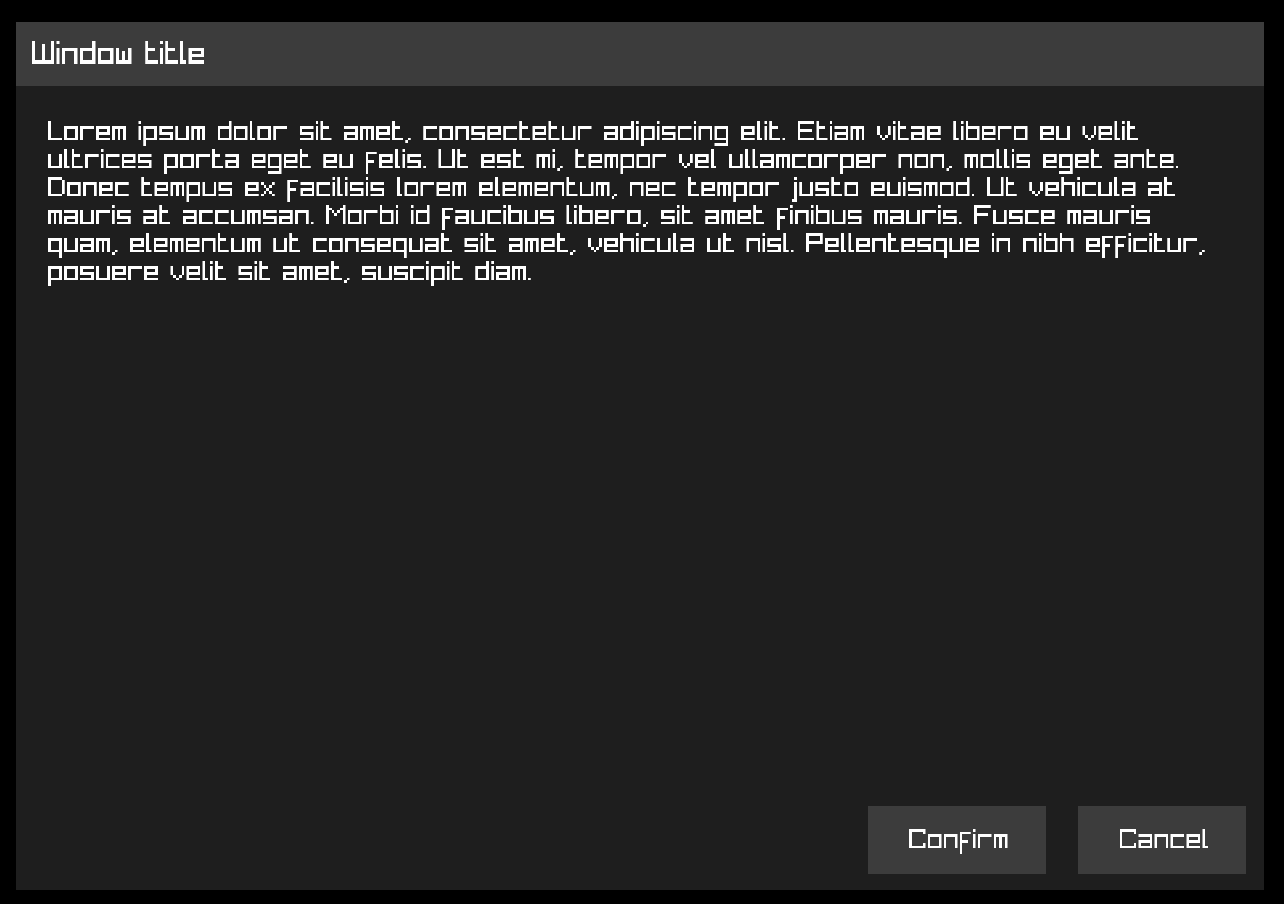
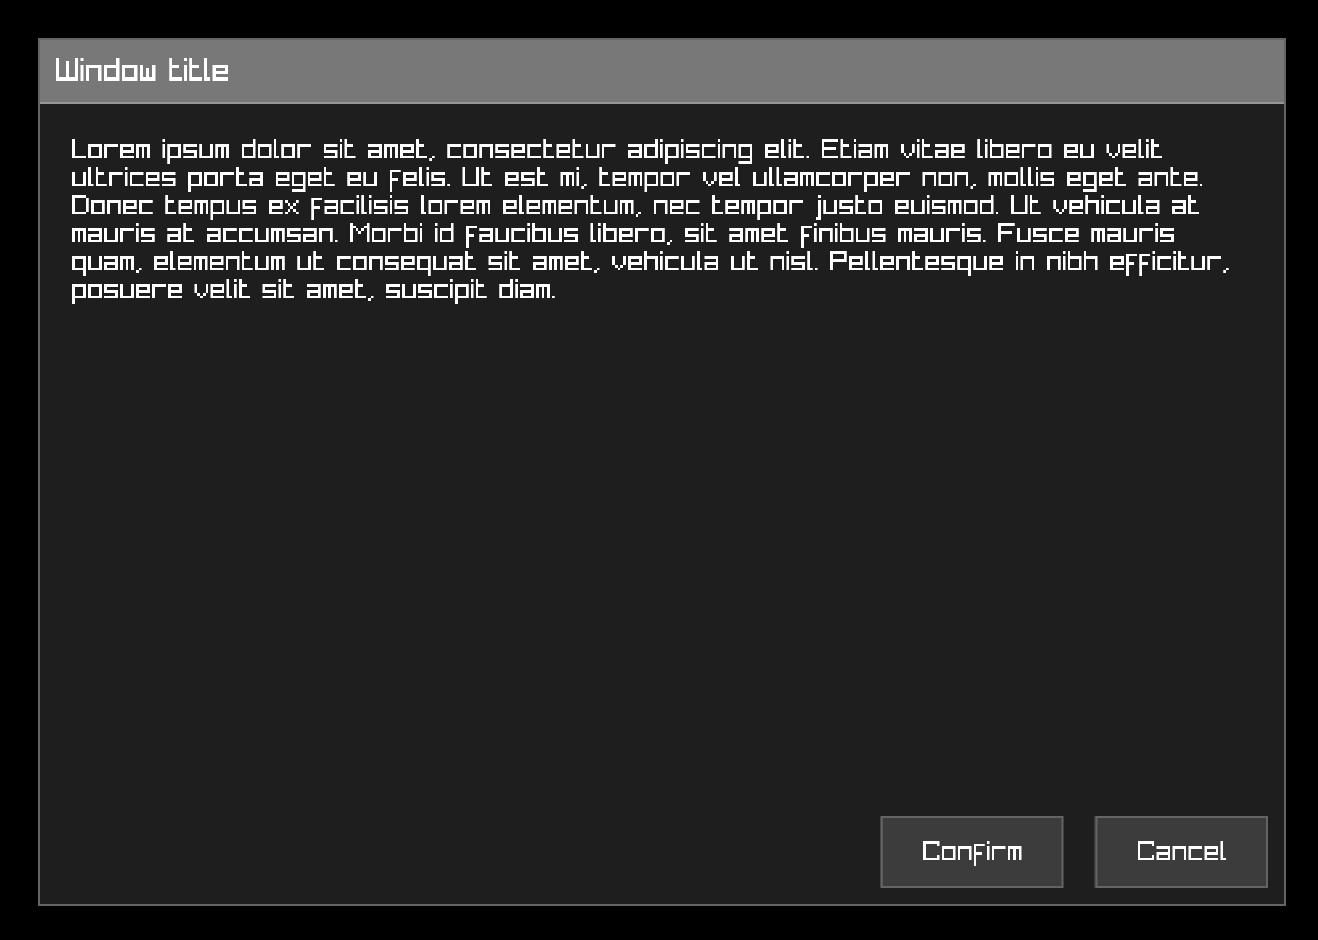
Add borders

Changed region(s): [[0.0, 0.0, 0.9969, 0.9912]]

diff --git a/README.md b/README.md
@@ -9,8 +9,8 @@ It is meant for building user-facing UIs using familiar concepts from CSS.
 Features:
 
 - Flex layout
+- Flex fit (shrink) and grow
 - Flex justify and align
-- Flex basis
 - Flex child gap
 - Padding, margin
 - Text
@@ -48,18 +48,50 @@ orui.end() // The UI gets rendered here
 
 ## Declaring UI
 
-### container
+### element
 
-A container is the basic building block element for holding child elements. You can think of it like a div element in HTML.
+`element` is the basic building block of orui. It can be used to build anything that orui can render.
+
+All elements declared after will be attached as children, until `end_element()` is called:
 
 ```odin
-{
-  orui.container(orui.id("element ID"), config)
-  // declare children inside curly brackets
+orui.element(orui.id("container"), config)
+
+// children declared here
+
+orui.end_element()
+```
+
+You can use this to build your own elements:
+
+```odin
+my_element :: proc(id: string) {
+  orui.element(orui.id(id), {...})
+  orui.label(...)
+  orui.end_element()
+}
+
+@(deferred_none=orui.end_element)
+my_container :: proc(id: string) {
+  orui.element(orui.id(id), {...})
+}
+
+{my_container("test")
+  my_element("element 1")
 }
 ```
 
-The surrounding curly brackets are important! All elements inside will be children of the container. The container 'ends' when it goes out of scope at the end of the curly braces.
+### container
+
+`container` is exactly like `element` except it automatically ends the element when it goes out of scope.
+
+This means you can use curly braces to define the scope of the container:
+
+```odin
+{orui.container(orui.id("element ID"), config)
+  // declare children inside curly brackets
+}
+```
 
 Or if you prefer another style:
 ```odin
@@ -80,37 +112,6 @@ Make sure containers always have their own scope. In the following example, labe
 }
 ```
 
-#### _container
-
-You can also use `_container` if you prefer to explicitly end containers. This variant of the container does not automatically close the element when it goes out of scope. You **must** end the element manually with `end_element()`:
-
-```odin
-orui._container(orui.id("container"), config)
-
-// ...
-
-orui.end_element()
-```
-
-This can be useful when building your own elements:
-
-```odin
-my_element :: proc(id: string) {
-  orui._container(orui.id(id), {...})
-  // children
-  orui.end_element()
-}
-
-@(deferred_none=orui.end_element)
-my_container :: proc(id: string) {
-  orui._container(orui.id(id), {...})
-}
-
-{my_container("test")
-  my_element("element 1")
-}
-```
-
 ### label
 
 A label element displays text. The text will be wrapped if it's too long.
@@ -120,10 +121,13 @@ Make sure you define the font and font size in the element config.
 This element does not need the surrounding curly braces because it cannot hold child elements.
 
 ```odin
-orui.label(orui.id("label"), "Hello world!", config)
+orui.label(orui.id("label"), "Hello world!", {
+	font = &your_font,
+	font_size = 16,
+})
 ```
 
-A label element can also be used as a button:
+A label element can also be used as a button by changing its style when the user interacts with it:
 
 ```odin
 if orui.label(orui.id("button"), "Button text", {
@@ -287,6 +291,19 @@ Edges :: struct {
 }
 ```
 
+### border
+
+Define the border width for each side of the element.
+
+```odin
+Edges :: struct {
+	top:    f32,
+	right:  f32,
+	bottom: f32,
+	left:   f32,
+}
+```
+
 ### gap
 
 The space between child elements in pixels. Only used for flex elements.
@@ -324,9 +341,15 @@ CrossAlignment :: enum {
 
 ### background_color
 
-This is the background color of the element, given as a raylib Color.
+The background color of the element, given as a raylib Color.
 
 If the alpha is 0, nothing is drawn. Default background color is invisible.
+
+### border_color
+
+The color of the border, given as a raylib Color.
+
+If the alpha is 0, nothing is drawn. Default border color is invisible.
 
 ### has_text and text
 
@@ -374,9 +397,16 @@ Config helpers can be used in the element config as a shortcut for common values
 orui.container(orui.id("container"), {
   // equal padding on all sides, equivalent to {5, 5, 5, 5}
   padding = orui.padding(5),
+	// horizontal padding of 10, vertical padding of 5, equivalent to {5, 10, 5, 10}
+	padding = orui.padding(10, 5),
 
   // equal margin on all sides, equivalent to {5, 5, 5, 5}
   margin = orui.margin(5),
+	// horizontal margin of 10, vertical margin of 5, equivalent to {5, 10, 5, 10}
+	margin = orui.margin(10, 5),
+
+  // equal border width on all sides, equivalent to {2, 2, 2, 2}
+	border = orui.border(2),
 
   // fixed pixel size, equivalent to {.Fixed, 500, 0, 0}
   width/height = orui.fixed(500),
@@ -387,8 +417,8 @@ orui.container(orui.id("container"), {
   // fit size, equivalent to {.Fit, 0, 0, 0}
   width/height = orui.fit(),
 
-  // grow size, equivalent to {.Grow, basis, 0, 0}. Basis is optional
-  width/height = orui.grow(basis),
+  // grow size, equivalent to {.Grow, weight, 0, 0}. Weight is optional
+  width/height = orui.grow(weight),
 })
 ```
 
